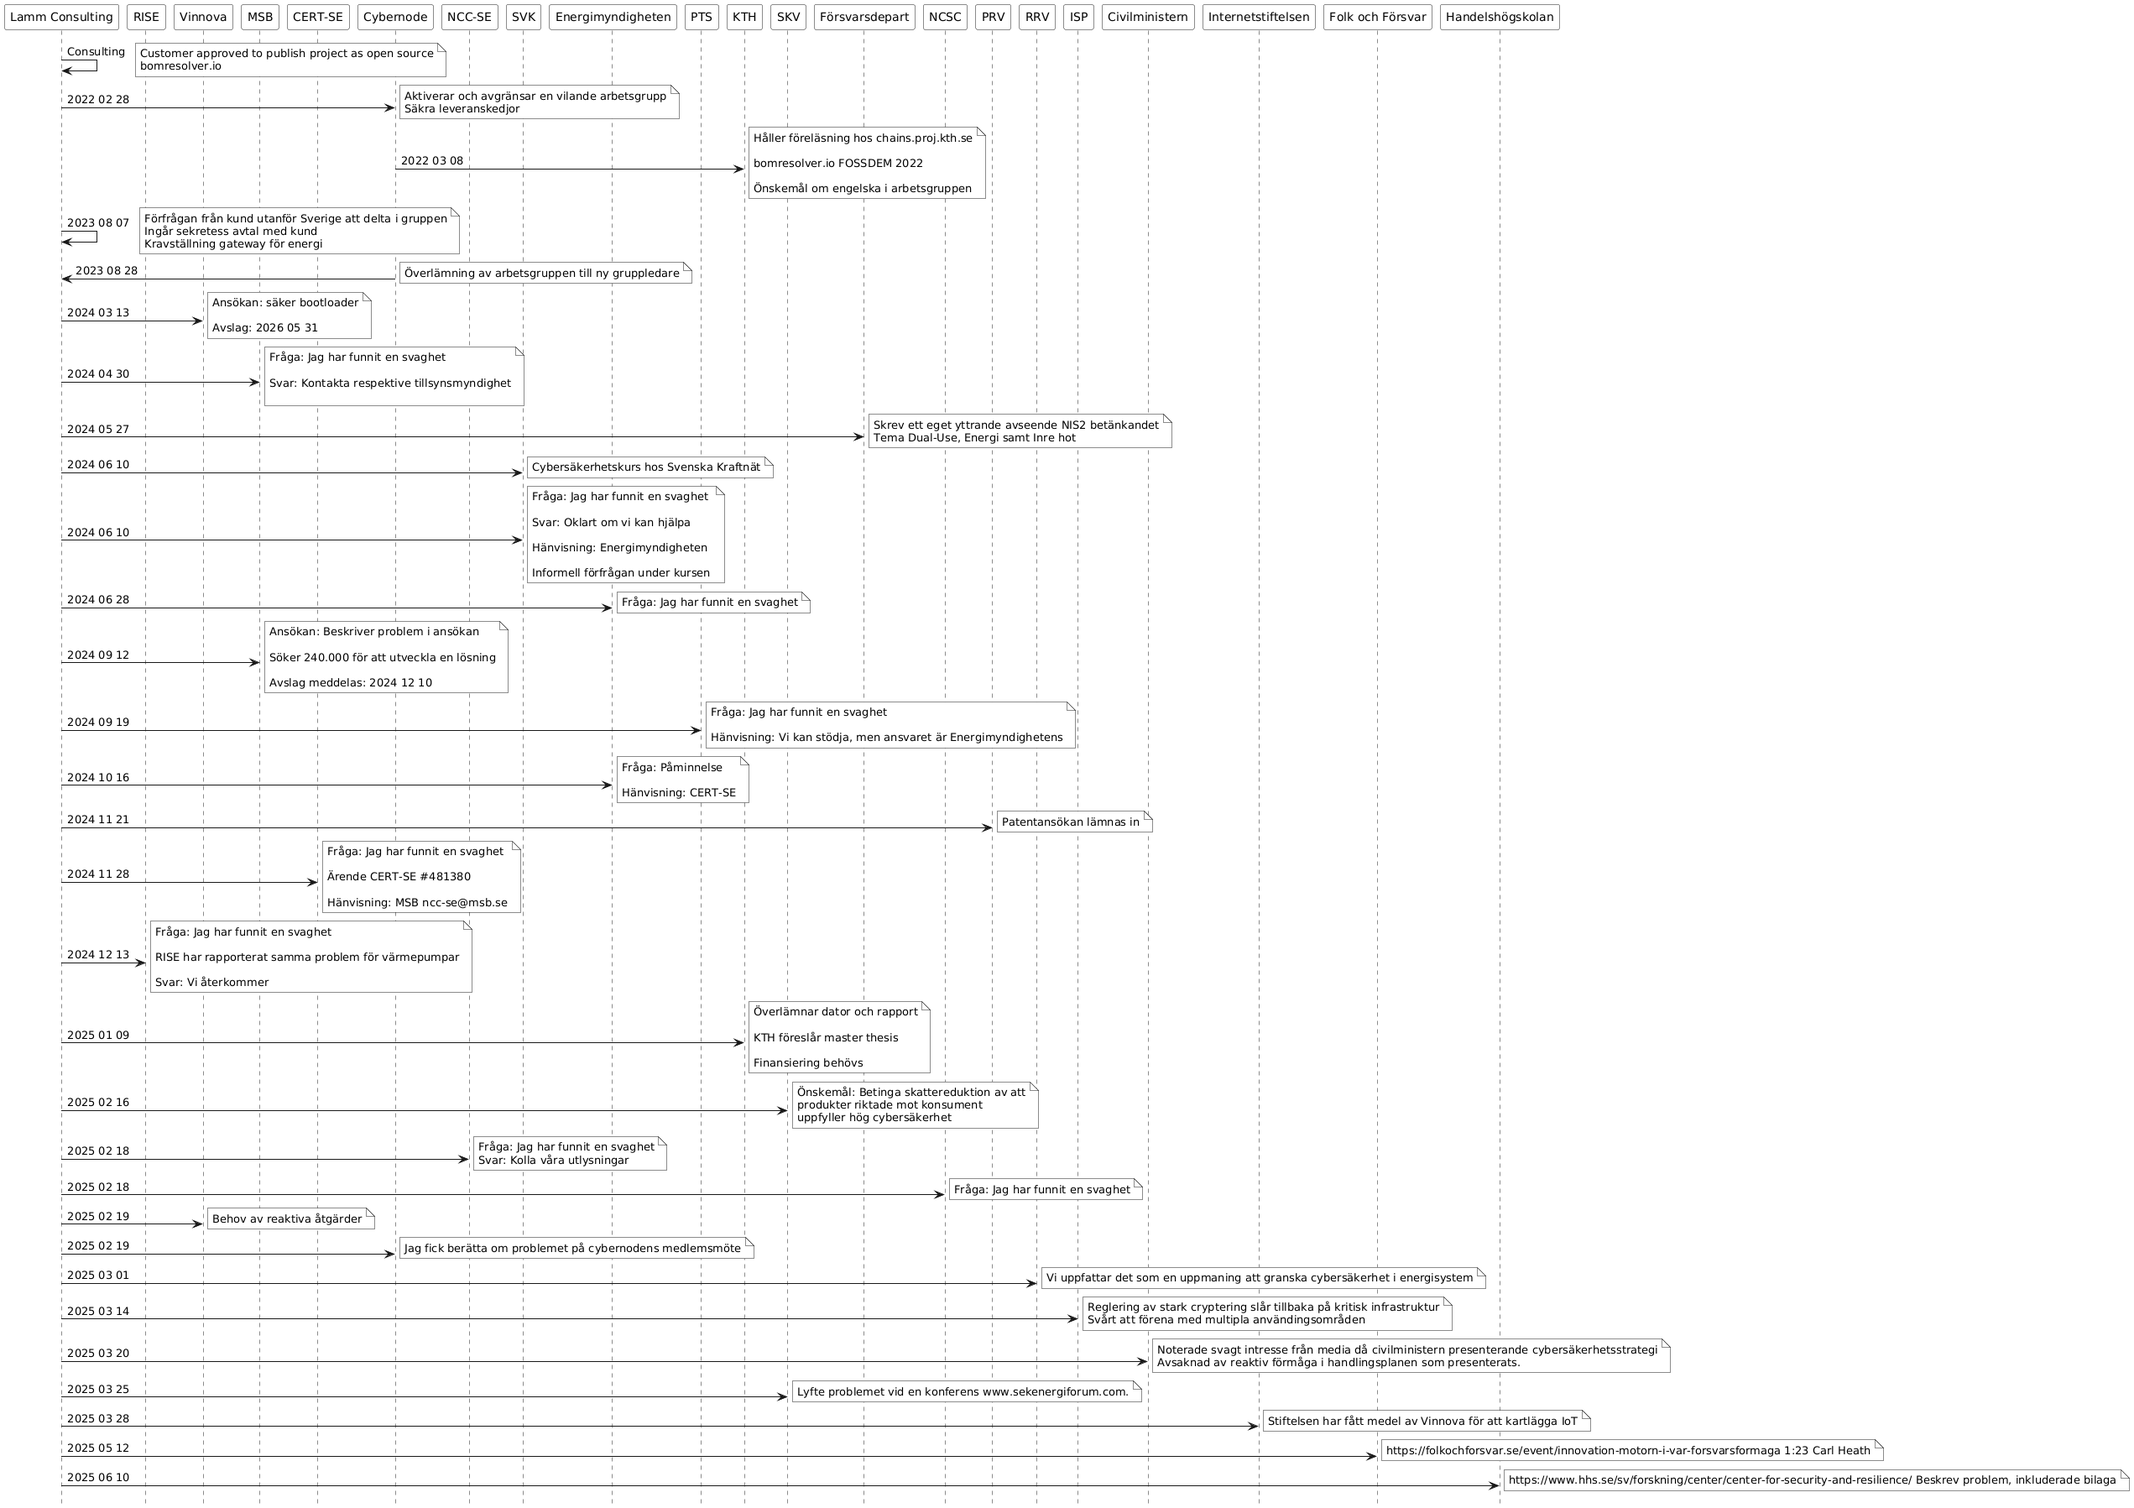
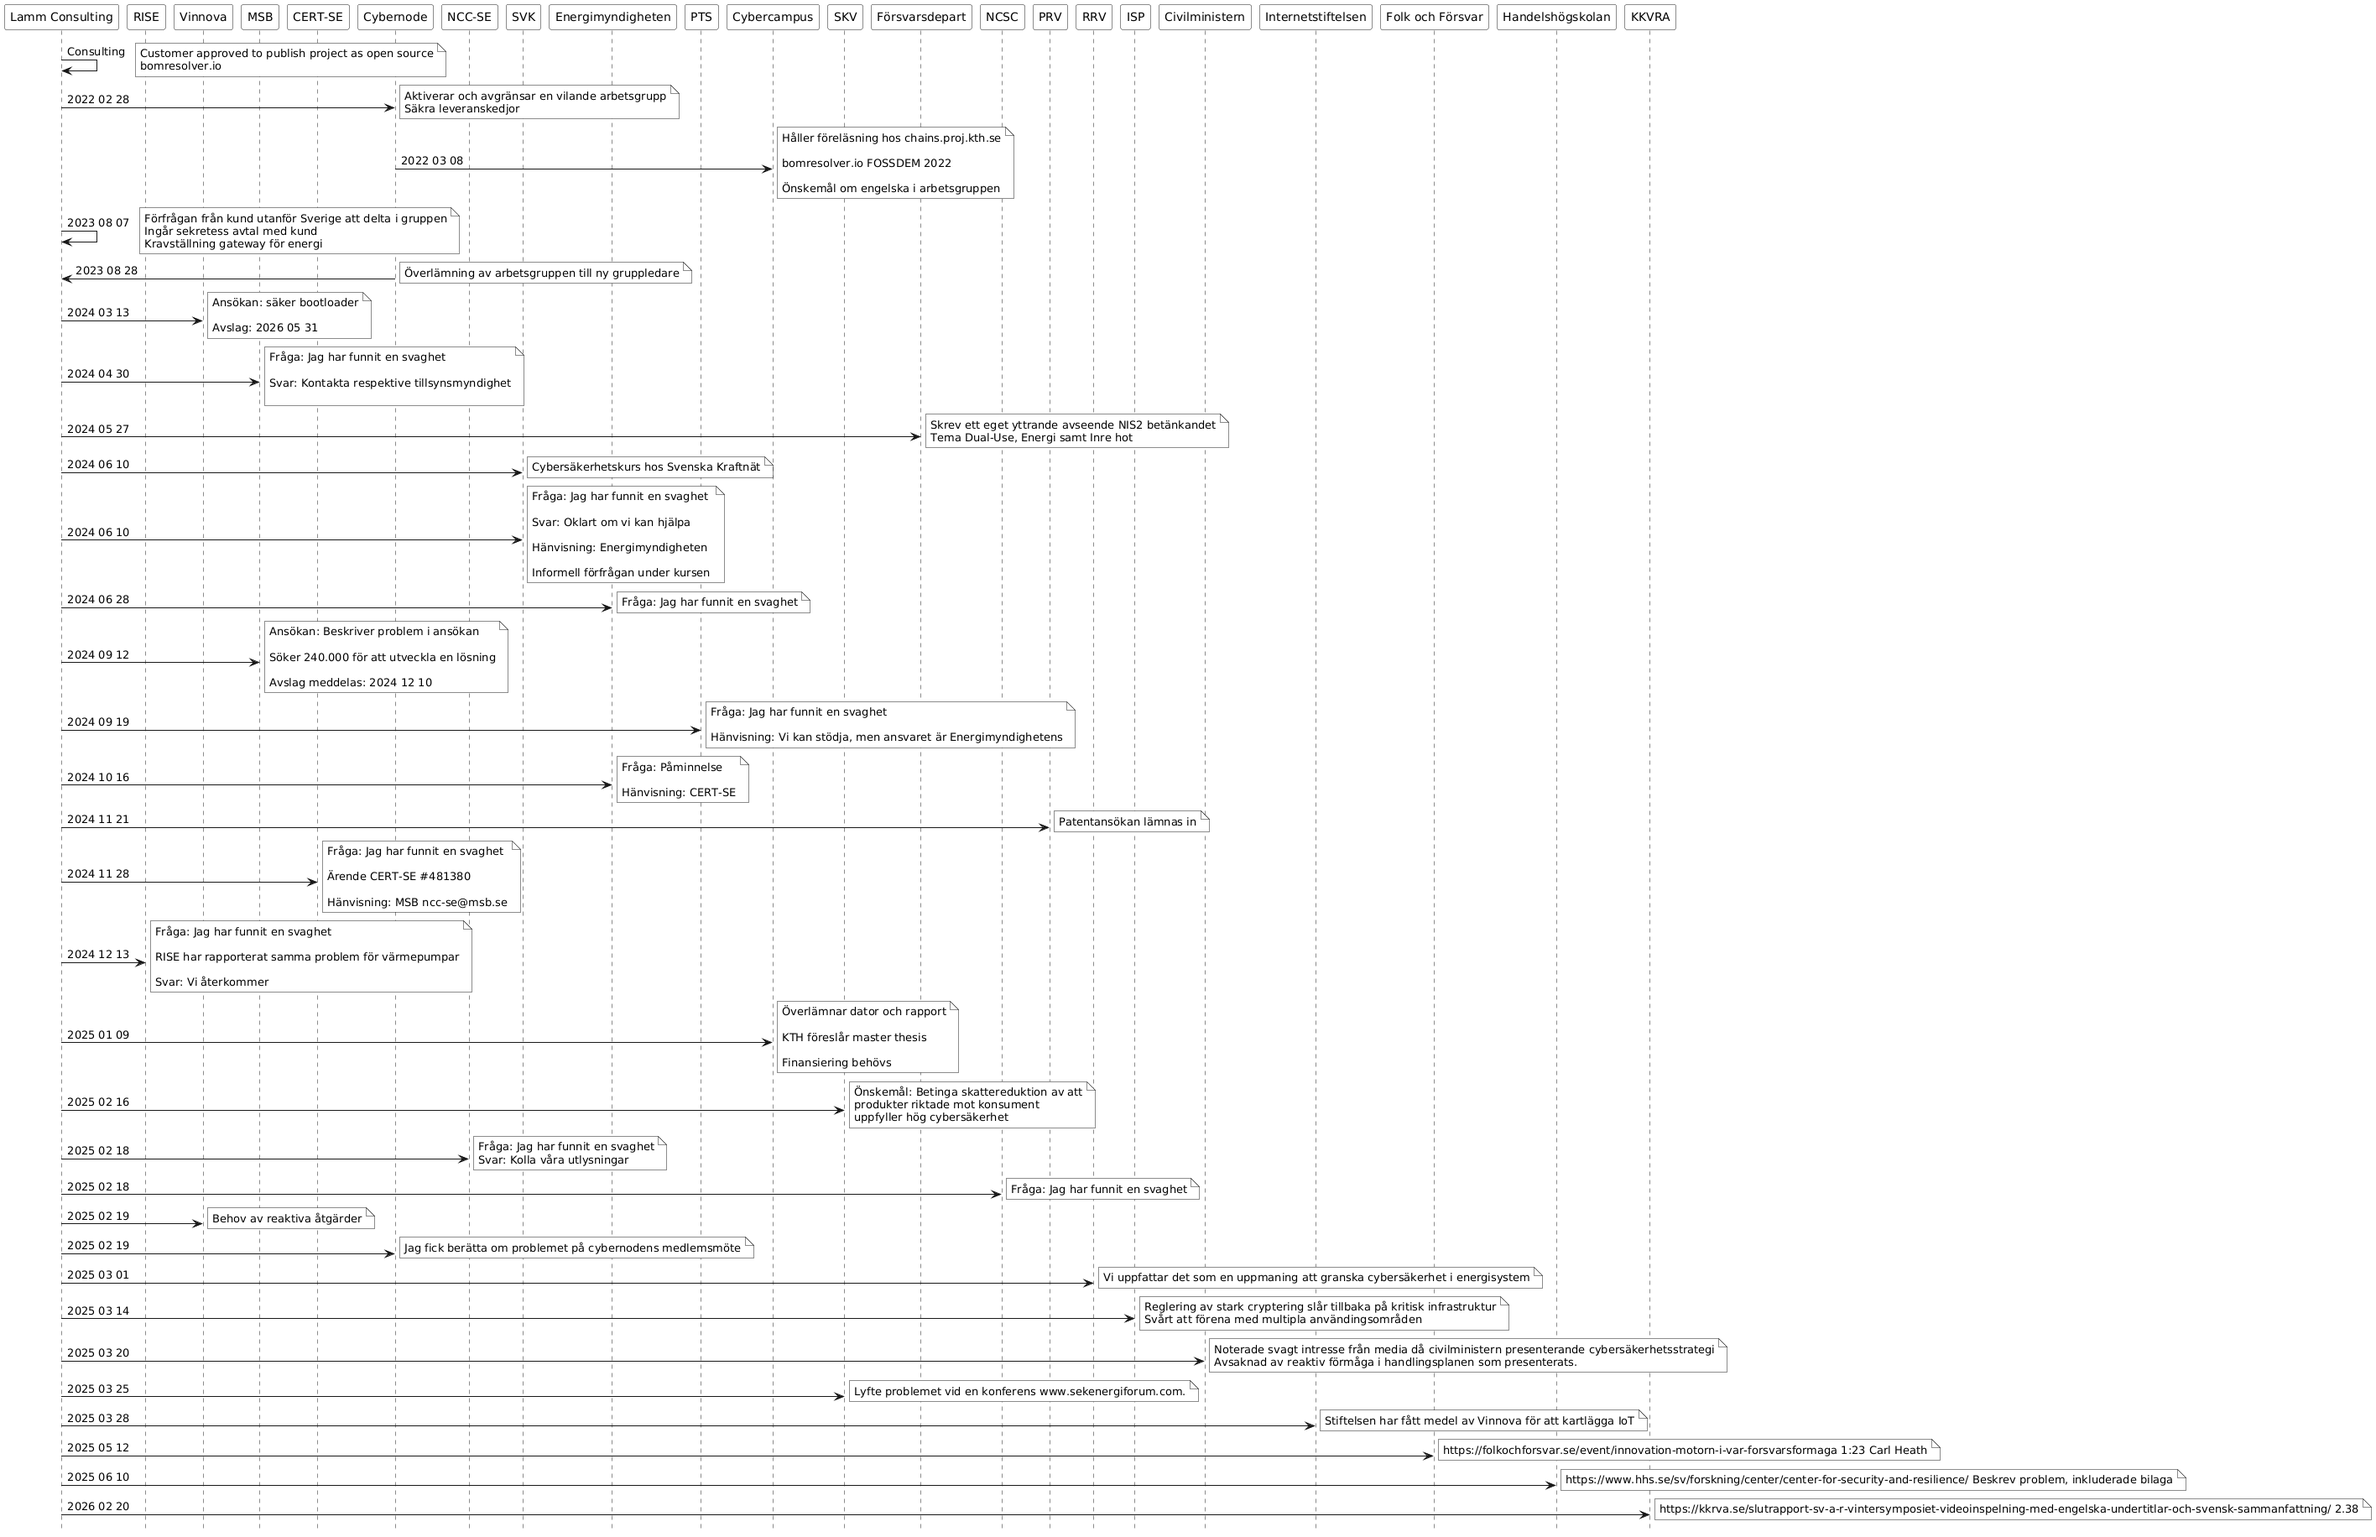
KKVRA

diff --git a/docs/posts/index.html b/docs/posts/index.html
@@ -64,8 +64,6 @@
 <li class=" has-sub-menu"><a href="https://lammda.se/sample/">Software Supply Chain<span class="mark closed">+</span></a>
   
 <ul class="sub-menu">
-<li class=""><a href="https://lammda.se/sample/custom-shortcodes/">Hello SBOM</a></li>
-<li class=""><a href="https://lammda.se/sample/markdown-syntax/">Serving static content</a></li>
 </ul>
   
 </li>
